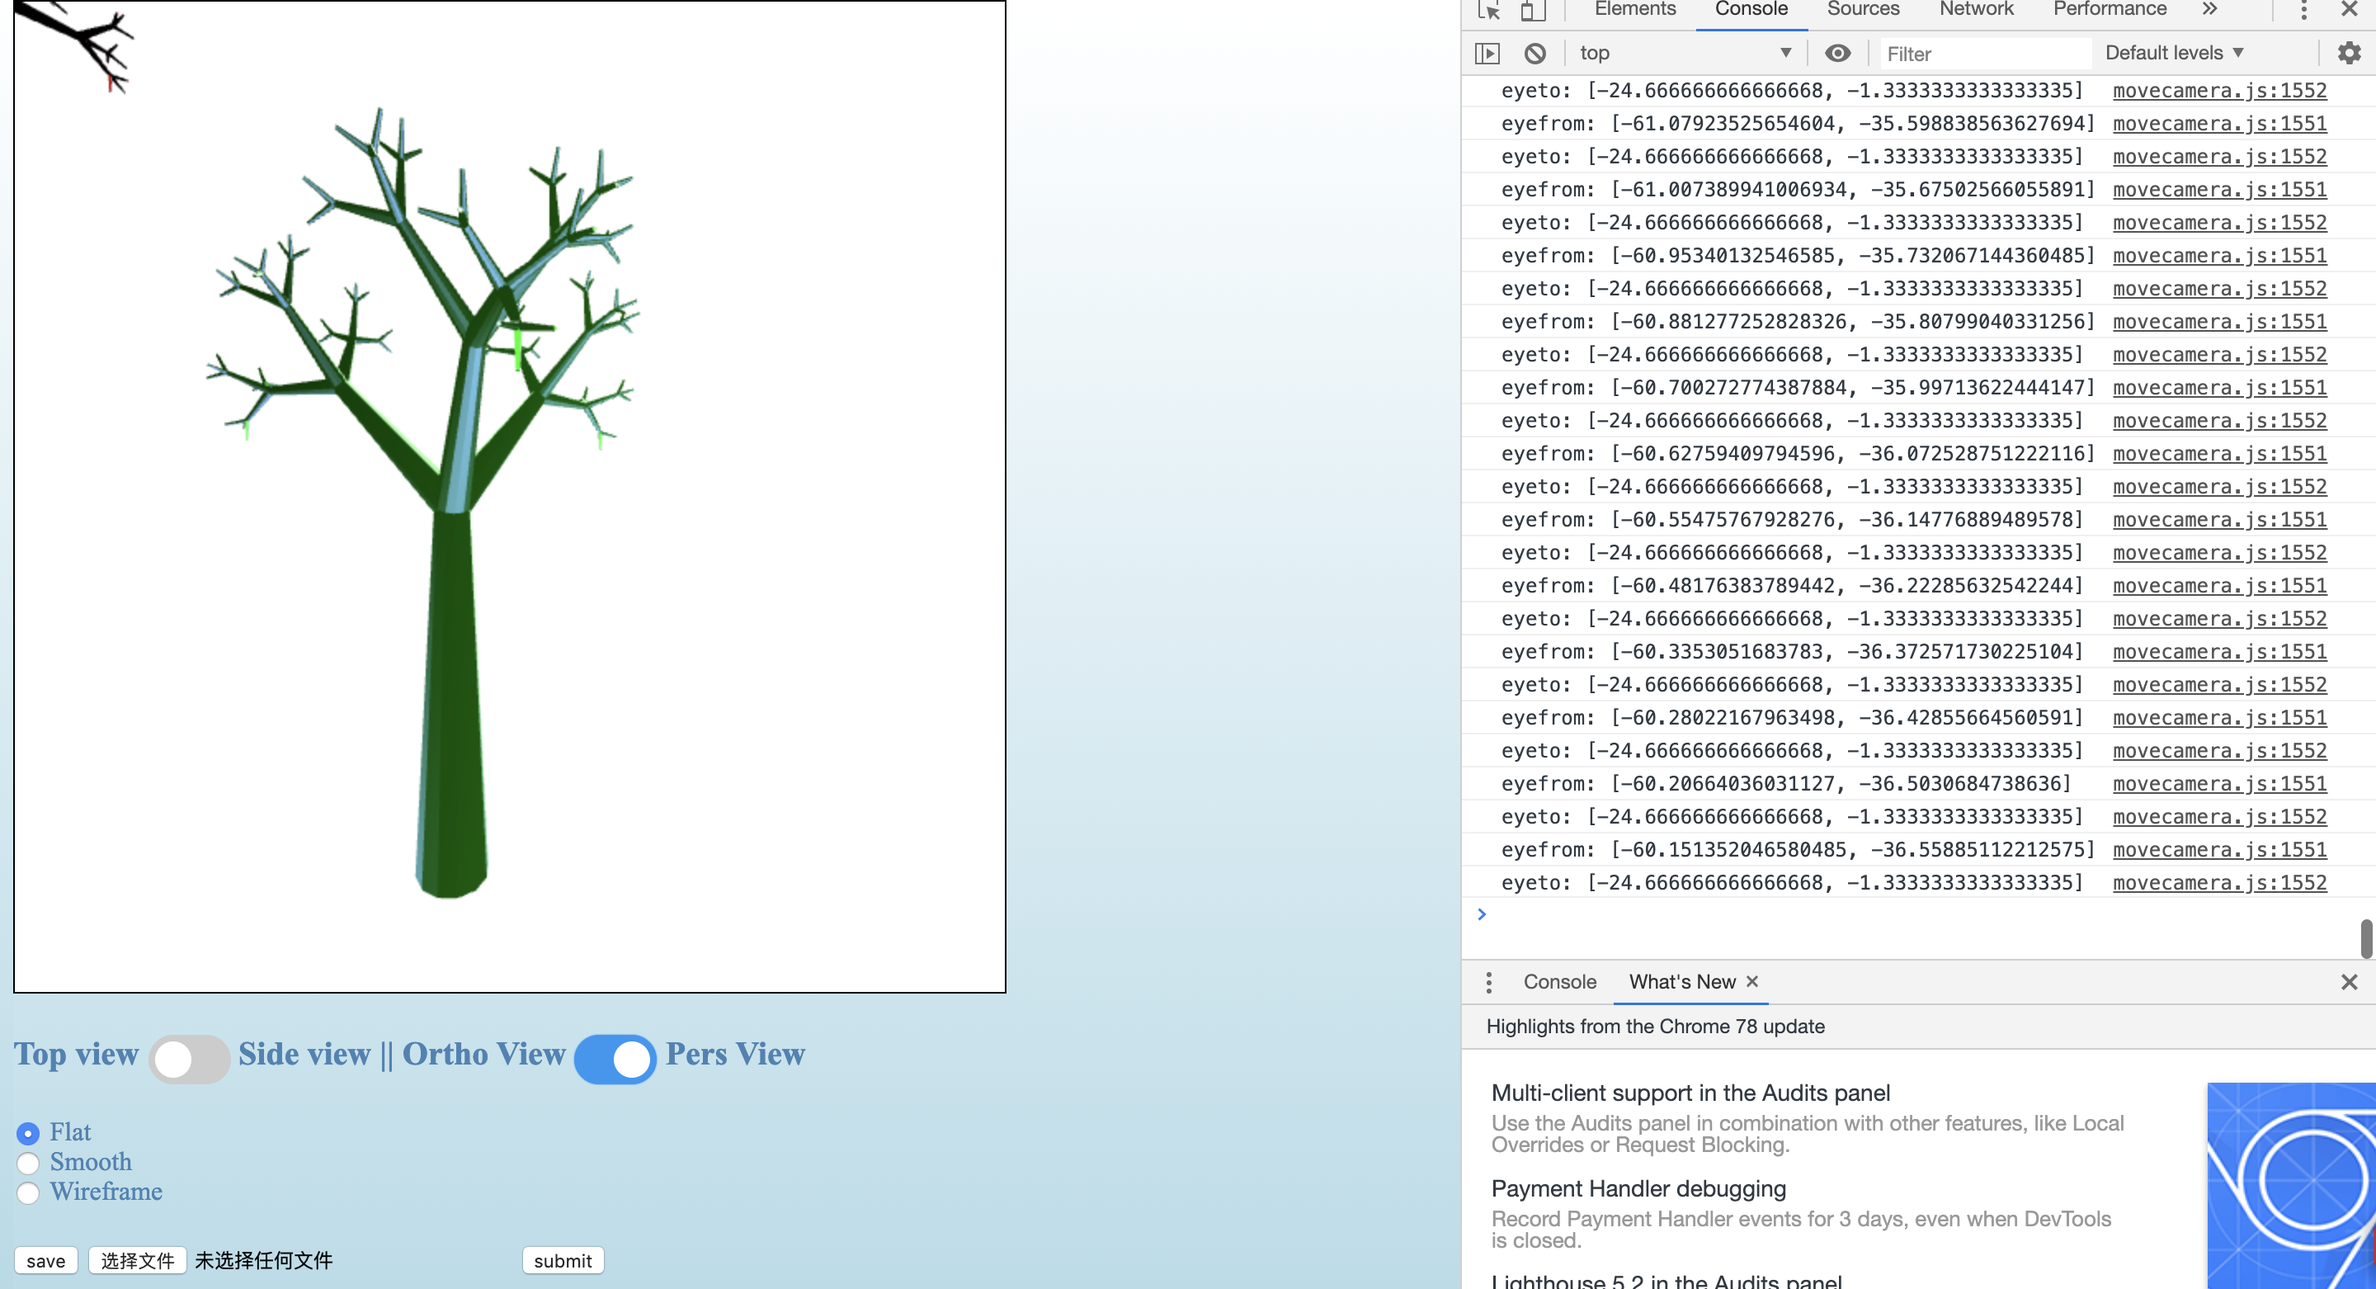
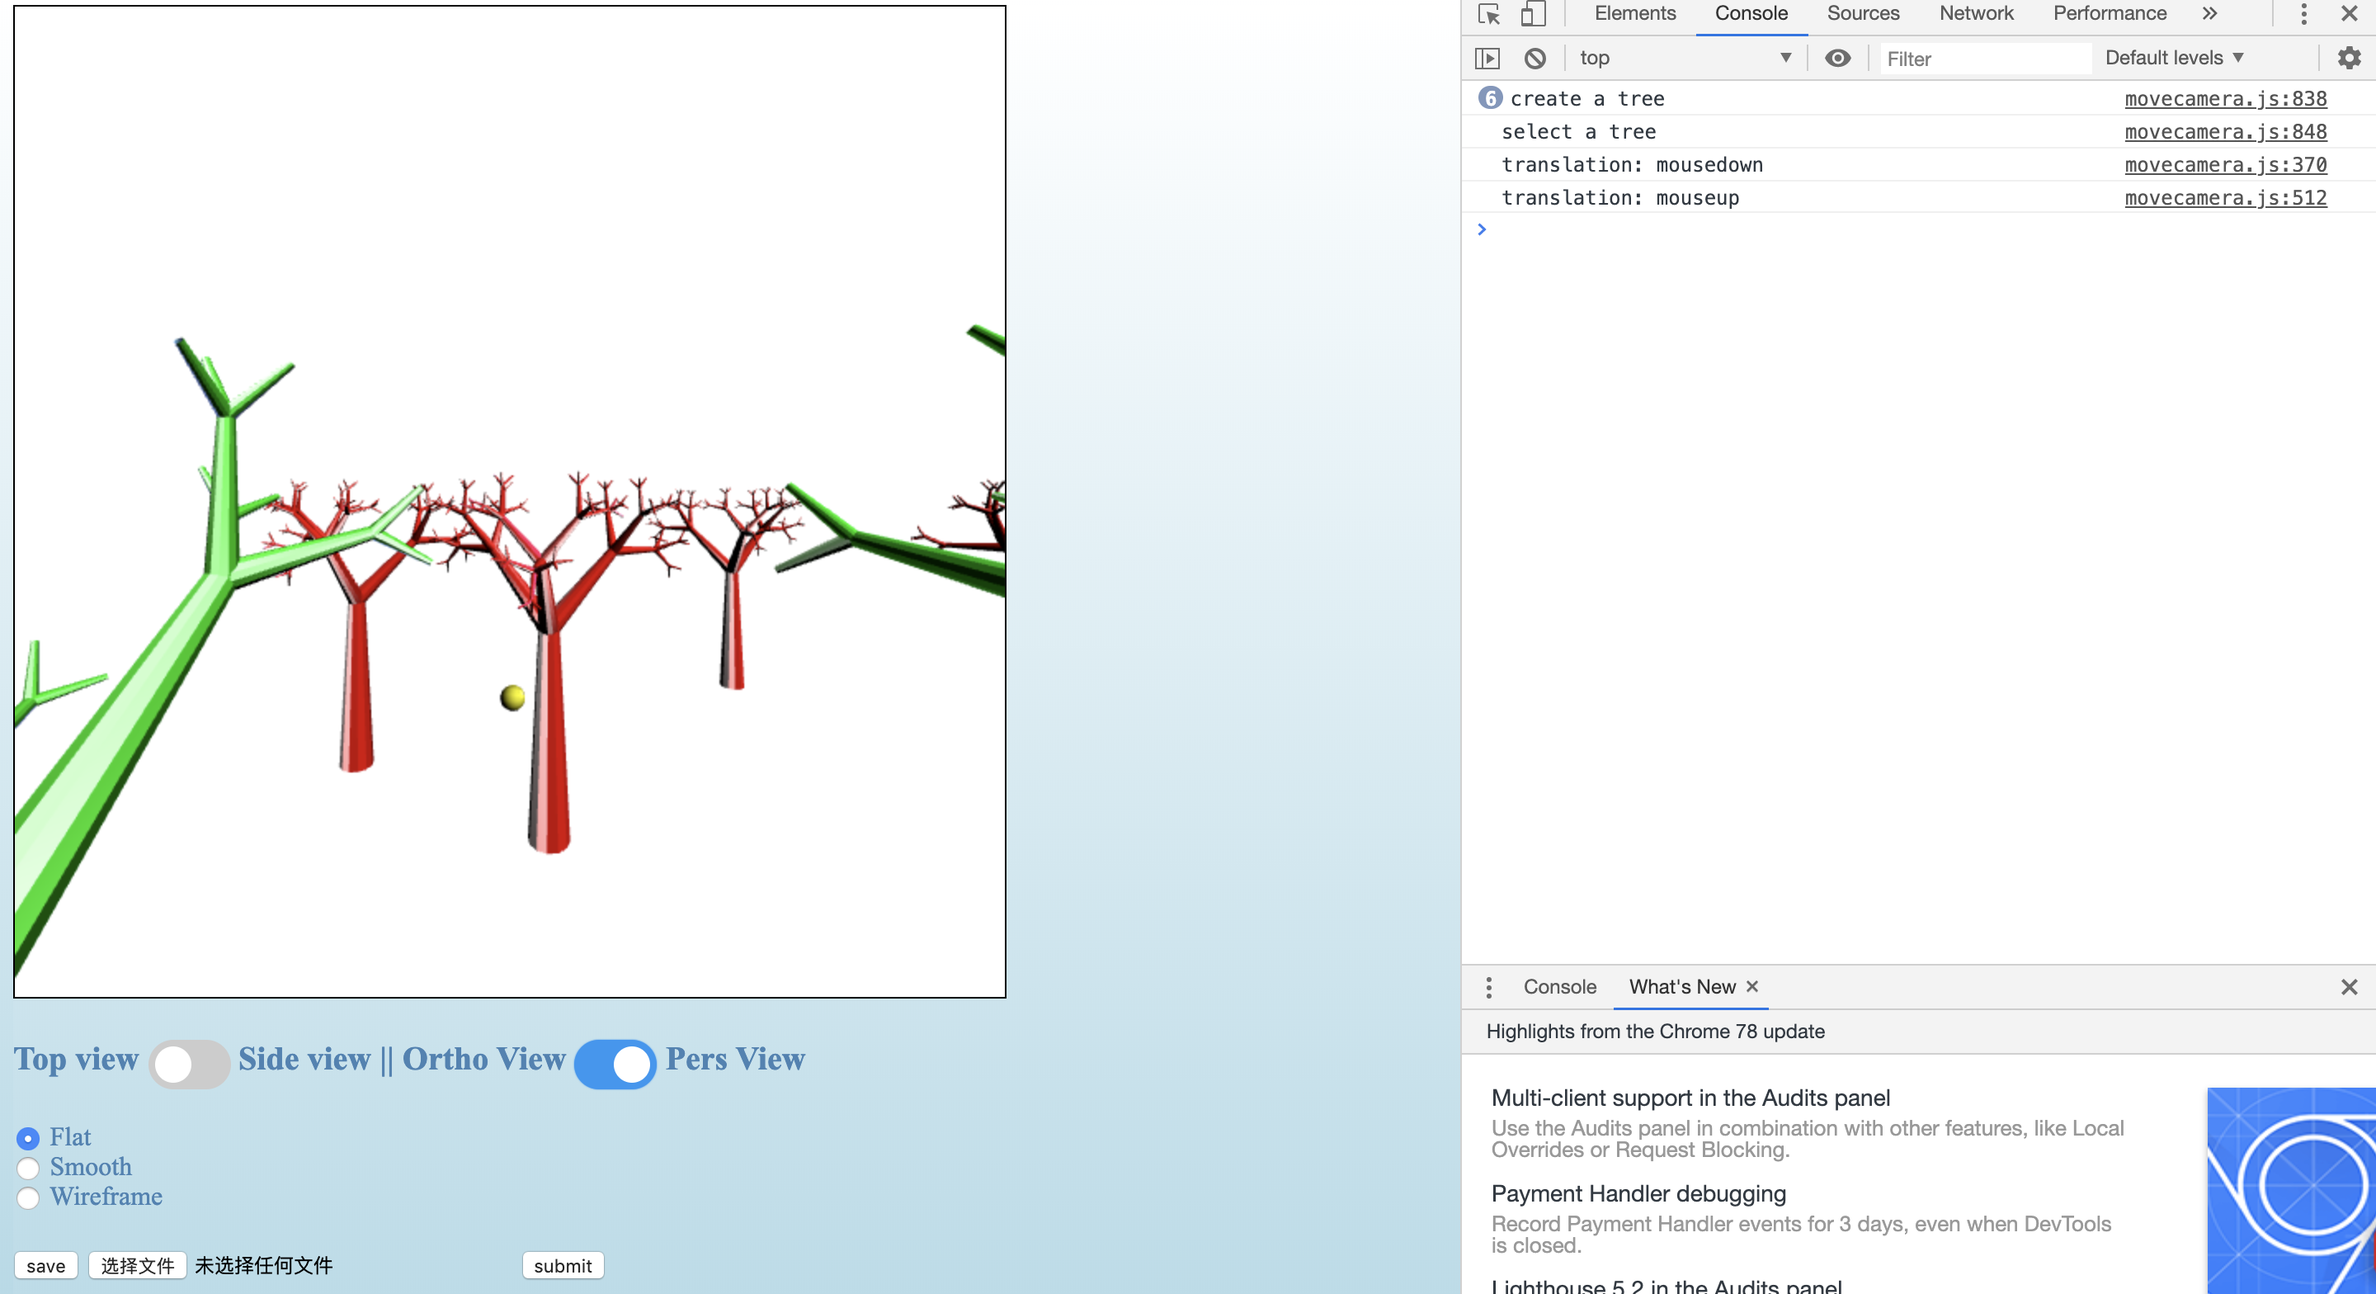
11/25/19

diff --git a/prog4/movecamera.js b/prog4/movecamera.js
@@ -19,8 +19,9 @@ var VSHADER_SOURCE =
     'uniform mat4 u_rotateMatrix_x;\n' + // rotate by x axis
     'uniform mat4 u_rotateMatrix_z;\n' + // rotate by z axis
     'uniform bool u_isTree;\n' + // to choose between drawing tree and drawing sphere
+    'uniform bool u_isYawOrExamine;\n' + // if current mode is yaw or examine, use a different way to draw
     'void main() {\n' +
-    '   if(u_isTree) {\n' + // draw trees
+    '   if(u_isTree && !u_isYawOrExamine) {\n' + // draw trees
     '       vec4 v_vertPos4 = u_mvpMatrix * u_rotateMatrix_x * u_rotateMatrix_z * u_scaleMatrix * a_Position;\n' +
     '       v_vertPos = vec3(v_vertPos4) / v_vertPos4.w;\n' + // view direction
     '       gl_Position = u_mvpMatrix * u_rotateMatrix_x * u_rotateMatrix_z * u_scaleMatrix * a_Position + u_Translation;\n' +
@@ -67,12 +68,87 @@ var VSHADER_SOURCE =
     '       }\n' +
     '   }\n' +
 
-    '   else {\n' + // draw sphere
+    '   else if (u_isTree && u_isYawOrExamine){\n' +
+    '       vec4 v_vertPos4 = u_mvpMatrix * u_rotateMatrix_x * u_rotateMatrix_z * u_scaleMatrix * a_Position;\n' +
+    '       v_vertPos = vec3(v_vertPos4) / v_vertPos4.w;\n' + // view direction
+    '       gl_Position = u_mvpMatrix * (u_rotateMatrix_x * u_rotateMatrix_z * u_scaleMatrix * a_Position + u_Translation);\n' +
+    // Make the length of the normal 1.0
+    '       vec3 normal = normalize((u_rotateMatrix_x * u_rotateMatrix_z * u_scaleMatrix * vec4(a_Normal,0.0)).xyz);\n' +
+    // Dot product of the light direction and the orientation of a surface (the normal)
+    '       float nDotL = max(dot(normalize(u_LightDirection), normal), 0.0);\n' +
+    // Calculate the color due to diffuse reflection
+    '       vec3 diffuse = u_LightColor * a_Color.rgb * nDotL;\n' +
+    // Calculate specular
+    '       float specular = 0.0;\n' +
+    '       if(nDotL > 0.0) {\n' +
+    '           vec3 R = reflect(-normalize(u_LightDirection), normal);\n' +
+    '           vec3 V = normalize(-v_vertPos);\n' +
+    '           float specAngle = max(dot(R, V), 0.0);\n' +
+    '           specular = pow(specAngle, u_shininessVal);\n' +
+    '       }\n' +
+    '       vec3 s = vec3(1.0, 1.0, 1.0) * vec3(1.0, 1.0, 1.0) * specular;\n' +
+
+    // Point light
+    '       vec3 lightDirection2 = normalize(u_LightPos - vec3(u_rotateMatrix_x * u_rotateMatrix_z * u_scaleMatrix * a_Position + u_Translation));\n' +
+    '       vec3 normal2 = normalize((u_rotateMatrix_x * u_rotateMatrix_z * u_scaleMatrix * vec4(a_Normal,0.0) + u_Translation).xyz);\n' +
+    '       v_vertPos4 = u_mvpMatrix * u_rotateMatrix_x * u_rotateMatrix_z * u_scaleMatrix * a_Position + u_Translation;\n' +
+    '       v_vertPos = vec3(v_vertPos4) / v_vertPos4.w;\n' + // view direction
+    '       float nDotL2 = max(dot(lightDirection2, normal2), 0.0);\n' +
+    '       vec3 diffuse2 = vec3(0.5, 0.5, 1) * a_Color.rgb * nDotL2;\n' +
+    '       float specular2 = 0.0;\n' +
+    '       if(nDotL2 > 0.0) {\n' +
+    '           vec3 R2 = reflect(-lightDirection2, normal);\n' +
+    '           vec3 V2 = normalize(-v_vertPos);\n' +
+    '           float specAngle2 = max(dot(R2, V2), 0.0);\n' +
+    '           specular2 = pow(specAngle2, u_shininessVal);\n' +
+    '       }\n' +
+    '       vec3 s2 = vec3(0.5, 0.5, 1.0) * vec3(1.0, 1.0, 1.0) * specular2;\n' +
+
+    '       v_Color = vec4(diffuse + s, a_Color.a);\n' +
+
+    '       if (!u_LightOff) {\n' + // u_LightOff == 0, meaning that the light is turned on
+    '           v_Color = vec4(diffuse + diffuse2 + s + s2, a_Color.a);\n' +
+    '       }\n' +
+
+    '       if (u_Clicked) {\n' + //  Draw in the selected color if mouse is pressed
+    '           v_Color = a_Color_2;\n' +
+    '       }\n' +
+    '   }\n' +
+    '   else if (!u_isTree && !u_isYawOrExamine){\n' + // draw sphere
     '       vec4 color = vec4(1.0, 1.0, 0.0, 1.0);\n' + // Sphere color
     '       if (u_LightOff) {\n' +
     '           color = vec4(0.5, 0.5, 0.0, 1.0);\n' + // if turned off, make it a little darker
     '       }\n' +
     '       gl_Position = u_mvpMatrix * a_Position + u_Translation;\n' +
+    // Calculate a normal to be fit with a model matrix, and make it 1.0 in length
+    '       vec3 normal = normalize(vec3(u_NormalMatrix * vec4(a_Normal, 0.0)));\n' +
+    // Calculate the light direction and make it 1.0 in length
+    '       vec3 lightDirection = normalize(u_LightDirection);\n' +
+    // The dot product of the light direction and the normal
+    '       float nDotL = max(dot(lightDirection, normal), 0.0);\n' +
+    // Calculate the color due to diffuse reflection
+    '       vec3 diffuse = u_LightColor * color.rgb * nDotL;\n' +
+    '       float specular = 0.0;\n' +
+    '       if(nDotL > 0.0) {\n' +
+    '           vec3 R = reflect(-lightDirection, normal);\n' +
+    '           vec3 V = normalize(-vec3(u_mvpMatrix * a_Position));\n' +
+    '           float specAngle = max(dot(R, V), 0.0);\n' +
+    '           specular = pow(specAngle, 20.0);\n' +
+    '       }\n' +
+    '       vec3 s = vec3(1.0, 1.0, 1.0) * vec3(1.0, 1.0, 1.0) * specular;\n' +
+
+    '       v_Color = vec4(diffuse + s, color.a);\n' +
+
+    '       if (u_Clicked) {\n' +
+    '           v_Color = a_Color_2;\n' +
+    '       }\n' +
+    '   }\n' +
+    '   else if (!u_isTree && u_isYawOrExamine){\n' + // draw sphere
+    '       vec4 color = vec4(1.0, 1.0, 0.0, 1.0);\n' + // Sphere color
+    '       if (u_LightOff) {\n' +
+    '           color = vec4(0.5, 0.5, 0.0, 1.0);\n' + // if turned off, make it a little darker
+    '       }\n' +
+    '       gl_Position = u_mvpMatrix * (a_Position + u_Translation);\n' +
     // Calculate a normal to be fit with a model matrix, and make it 1.0 in length
     '       vec3 normal = normalize(vec3(u_NormalMatrix * vec4(a_Normal, 0.0)));\n' +
     // Calculate the light direction and make it 1.0 in length
@@ -147,11 +223,11 @@ var zooming = 0.0; // zoom in/out
 var camera1 = 0.0; // camera1 position
 var camera2 = 1.0; // camera2 position
 var isCamera = 0; // whether you are changing camera's position
-var isPanning = 0;
-var Transx, Transy;
-var panx = 0, pany = 0;
-var isDb = 0;
-var isE = 0;
+var isPanning = 0; // whether you are doing panning
+var Transx, Transy; // use in panning, for animation
+var panx = 0, pany = 0; // offset of your mouse during panning
+var isDb = 0; // whether you double click a tree
+var isE = 0; // whether you do examine work
 
 var scale = new Float32Array([ // scaling matrix
     1.0, 0.0, 0.0, 0.0,
@@ -228,13 +304,15 @@ function main() {
     cylinderProgram.u_NormalMatrix = gl.getUniformLocation(cylinderProgram, 'u_NormalMatrix');
     cylinderProgram.u_isTree = gl.getUniformLocation(cylinderProgram, 'u_isTree');
     cylinderProgram.u_LightPos = gl.getUniformLocation(cylinderProgram, 'u_LightPos');
+    cylinderProgram.u_isYawOrExamine = gl.getUniformLocation(cylinderProgram, 'u_isYawOrExamine');
 
     if (cylinderProgram.a_Position < 0 || cylinderProgram.a_Color < 0 || cylinderProgram.a_Color_2 < 0 ||
         cylinderProgram.a_Normal < 0 || cylinderProgram.u_ViewMatrix < 0 || cylinderProgram.u_ProjMatrix < 0 ||
         cylinderProgram.u_Translation < 0 || cylinderProgram.u_LightColor < 0 || cylinderProgram.u_LightDirection < 0 ||
         cylinderProgram.u_shininessVal < 0 || cylinderProgram.u_Clicked < 0 || cylinderProgram.u_rotateMatrix_x < 0 ||
         cylinderProgram.u_rotateMatrix_z < 0 || cylinderProgram.u_scaleMatrix < 0 || cylinderProgram.u_NormalMatrix < 0 ||
-        cylinderProgram.u_isTree < 0 || cylinderProgram.u_LightPos < 0 || cylinderProgram.u_LightOff < 0) {
+        cylinderProgram.u_isTree < 0 || cylinderProgram.u_LightPos < 0 || cylinderProgram.u_LightOff < 0 ||
+        cylinderProgram.u_isYawOrExamine < 0) {
         console.log('Failed to locate variables for cylinder');
         return -1;
     }
@@ -256,8 +334,6 @@ function main() {
             isDb = 1;
             currentAngle = 0;
         }
-        //draw(gl,cylinderProgram);
-        //dbclick(gl, cylinderProgram);
         var dbclick = function () {
             draw(gl, cylinderProgram);
             requestAnimationFrame(dbclick);
@@ -368,11 +444,6 @@ function main() {
             draw(gl, cylinderProgram);
         }
         if (isPanning) {
-            /*for (var i = 0; i < count; i++) {
-                var newmap = map[i];
-                newmap[3] -= x - Transx;
-                newmap[4] -= y - Transy;
-            }*/
             panx += x - Transx;
             pany += y - Transy;
             Transx = x;
@@ -610,6 +681,7 @@ function decideClickOn(ev, gl, cylinderProgram) {
         gl.uniform1i(cylinderProgram.u_Clicked, 1);
         gl.uniform1i(cylinderProgram.u_isTree, 1); // draw trees
         gl.uniform1i(cylinderProgram.u_LightOff, is_selected_s);
+        gl.uniform1i(cylinderProgram.u_isYawOrExamine, 0);
         gl.vertexAttrib4f(cylinderProgram.a_Color_2, color, 0.0, 0.0, 1.0);
         initScale(gl, cylinderProgram);
         initRotate(gl, cylinderProgram);
@@ -710,6 +782,7 @@ function redraw(ev, gl, canvas, cylinderProgram) {
         gl.uniform1i(cylinderProgram.u_Clicked, 1);
         gl.uniform1i(cylinderProgram.u_isTree, 1); // draw trees
         gl.uniform1i(cylinderProgram.u_LightOff, is_selected_s);
+        gl.uniform1i(cylinderProgram.u_isYawOrExamine, 0);
         gl.vertexAttrib4f(cylinderProgram.a_Color_2, color, 0.0, 0.0, 1.0);
         initScale(gl, cylinderProgram);
         initRotate(gl, cylinderProgram);
@@ -837,19 +910,22 @@ function draw(gl, cylinderProgram) {
             gl.uniform1i(cylinderProgram.u_Clicked, 0);
             gl.uniform1i(cylinderProgram.u_isTree, 1);
             gl.uniform1i(cylinderProgram.u_LightOff, is_selected_s);
+            gl.uniform1i(cylinderProgram.u_isYawOrExamine, 0);
             initPositions(gl, cylinderProgram, newmap[2]);
             initColors(gl, cylinderProgram, newmap[2]);
             initLightColor(gl, cylinderProgram);
             initLightDirection(gl, cylinderProgram);
             initLightPos(gl, cylinderProgram);
+            initTranslation(gl, cylinderProgram, newmap[3], newmap[4], newmap[5], toggle2);
             initMatrix(gl, cylinderProgram, toggle1, toggle2);
             if (isDb) {
-                initMatrix2(gl, cylinderProgram);
+                initMatrix2(gl, cylinderProgram, newmap[3], newmap[4], newmap[5]);
+                gl.uniform1i(cylinderProgram.u_isYawOrExamine, 1);
             }
             if (isE) {
-                initMatrix3(gl, cylinderProgram);
+                initMatrix3(gl, cylinderProgram, newmap[3], newmap[4], newmap[5]);
+                gl.uniform1i(cylinderProgram.u_isYawOrExamine, 1);
             }
-            initTranslation(gl, cylinderProgram, newmap[3], newmap[4], newmap[5], toggle2);
             initGloss(gl, cylinderProgram, newmap[2]);
             initScale(gl, cylinderProgram);
             initRotate(gl, cylinderProgram);
@@ -903,19 +979,22 @@ function draw(gl, cylinderProgram) {
             gl.uniform1i(cylinderProgram.u_Clicked, 0);
             gl.uniform1i(cylinderProgram.u_isTree, 1);
             gl.uniform1i(cylinderProgram.u_LightOff, is_selected_s);
+            gl.uniform1i(cylinderProgram.u_isYawOrExamine, 0);
             initPositions(gl, cylinderProgram, selected[1]);
             gl.vertexAttrib4f(cylinderProgram.a_Color, 0.0, 1.0, 0.0, 1.0);
             initLightColor(gl, cylinderProgram);
             initLightDirection(gl, cylinderProgram);
             initLightPos(gl, cylinderProgram);
+            initTranslation(gl, cylinderProgram, selected[2], selected[3], selected[4], toggle2);
             initMatrix(gl, cylinderProgram, toggle1, toggle2);
             if (isDb) {
-                initMatrix2(gl, cylinderProgram);
+                initMatrix2(gl, cylinderProgram, selected[2], selected[3], selected[4]);
+                gl.uniform1i(cylinderProgram.u_isYawOrExamine, 1);
             }
             if (isE) {
-                initMatrix3(gl, cylinderProgram);
+                initMatrix3(gl, cylinderProgram, selected[2], selected[3], selected[4]);
+                gl.uniform1i(cylinderProgram.u_isYawOrExamine, 1);
             }
-            initTranslation(gl, cylinderProgram, selected[2], selected[3], selected[4], toggle2);
             gl.uniform1f(cylinderProgram.u_shininessVal, 1.0);
             initScale(gl, cylinderProgram);
             initRotate(gl, cylinderProgram);
@@ -1385,6 +1464,9 @@ function drawSphere(gl, cylinderProgram) {
     else { // top + pers
         gl.uniform4f(cylinderProgram.u_Translation, -100 + 200 * selected_s[0], -100 + 200 * selected_s[1], 0, 0);
     }
+    if (isDb || isE) {
+        gl.uniform4f(cylinderProgram.u_Translation, 200 * (-0.5 + selected_s[0] - selected[2]), 200 * (-0.5 + selected_s[1] - selected[3]), 0, 0);
+    }
 
     // Calculate the matrix to transform the normal based on the model matrix
     normalMatrix.setInverseOf(modelMatrix);
@@ -1507,7 +1589,7 @@ function animate(angle) {
 }
 
 var currentAngle = 0.0;  // Current rotation angle
-function initMatrix2(gl, cylinderProgram) {
+function initMatrix2(gl, cylinderProgram, tx, ty, tz) {
     gl.useProgram(cylinderProgram);
     var mvpMatrix = new Matrix4();
     var vpMatrix = new Matrix4();
@@ -1516,22 +1598,22 @@ function initMatrix2(gl, cylinderProgram) {
     var angle = currentAngle * Math.PI / 180;
     if (toggle2 == 0) { //Ortho
         vpMatrix.setOrtho(-200, 200, -200, 200, -1000, 1000);
+        gl.uniform4f(cylinderProgram.u_Translation, 200 * (tx - selected[2]), 200 * (ty - selected[3]), tz, 0.0);
     }
     else {
         vpMatrix.setPerspective(90, 1, 10, 1000);
+        gl.uniform4f(cylinderProgram.u_Translation, 200 * (tx - selected[2]), 200 * (ty - selected[3]), 200 * tz, 0.0);
     }
-    var eyefromx = 200 * selected[2];
-    var eyefromy = 200 * selected[3];
-    var eyetox = eyefromx + 200 * Math.cos(angle);
-    var eyetoy = eyefromy + 200 * Math.sin(angle);
-    console.log(`eyefrom: [${eyefromx}, ${eyefromy}]`);
-    console.log(`eyeto: [${eyetox}, ${eyetoy}]`);
-    vpMatrix.lookAt(eyefromx, eyefromy, 50, eyetox, eyetoy, 50, 0, 0, 1);
+    var eyefromx = 0;
+    var eyefromy = 0;
+    var eyetox = 100 * Math.cos(angle);
+    var eyetoy = 100 * Math.sin(angle);
+    vpMatrix.lookAt(eyefromx, eyefromy, 80, eyetox, eyetoy, 80, 0, 0, 1);
     mvpMatrix.set(vpMatrix).multiply(modelMatrix);
     gl.uniformMatrix4fv(cylinderProgram.u_mvpMatrix, false, mvpMatrix.elements);
 }
 
-function initMatrix3(gl, cylinderProgram) {
+function initMatrix3(gl, cylinderProgram, tx, ty, tz) {
     gl.useProgram(cylinderProgram);
     var mvpMatrix = new Matrix4();
     var vpMatrix = new Matrix4();
@@ -1540,17 +1622,17 @@ function initMatrix3(gl, cylinderProgram) {
     var angle = currentAngle * Math.PI / 180;
     if (toggle2 == 0) { //Ortho
         vpMatrix.setOrtho(-200, 200, -200, 200, -1000, 1000);
+        gl.uniform4f(cylinderProgram.u_Translation, 200 * (tx - selected[2]), 200 * (ty - selected[3]), tz, 0.0);
     }
     else {
         vpMatrix.setPerspective(90, 1, 10, 1000);
+        gl.uniform4f(cylinderProgram.u_Translation, 200 * (tx - selected[2]), 200 * (ty - selected[3]), 200 * tz, 0.0);
     }
-    var eyefromx = 200 * selected[2] + 50 * Math.cos(angle);
-    var eyefromy = 200 * selected[3] + 50 * Math.sin(angle);
-    var eyetox = 200 * selected[2];
-    var eyetoy = 200 * selected[3];
-    console.log(`eyefrom: [${eyefromx}, ${eyefromy}]`);
-    console.log(`eyeto: [${eyetox}, ${eyetoy}]`);
-    vpMatrix.lookAt(eyefromx, eyefromy, 50, eyetox, eyetoy, 50, 0, 0, 1);
+    var eyefromx = 100 * Math.cos(angle);
+    var eyefromy = 100 * Math.sin(angle);
+    var eyetox = 0;
+    var eyetoy = 0;
+    vpMatrix.lookAt(eyefromx, eyefromy, 80, eyetox, eyetoy, 80, 0, 0, 1);
     // Calculate the model matrix
     mvpMatrix.set(vpMatrix).multiply(modelMatrix);
     gl.uniformMatrix4fv(cylinderProgram.u_mvpMatrix, false, mvpMatrix.elements);
